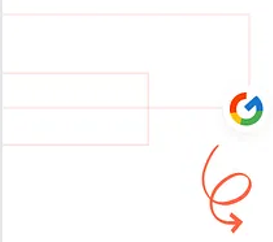
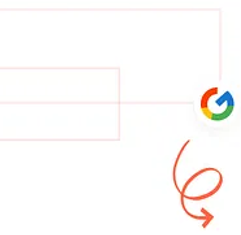
add-images

diff --git a/src/components/main.tsx b/src/components/main.tsx
@@ -7,7 +7,7 @@ import Image from 'next/image'
 export default function Main() {
     return (
         <div className='flex flex-col items-center justify-center mt-32 px-10'>
-            <div className='flex items-center justify-between mt-8'>
+            <div className='flex items-center justify-between w-[900px]'>
                 <Image
                     src="/images/image2.png"
                     alt="Placeholder"
